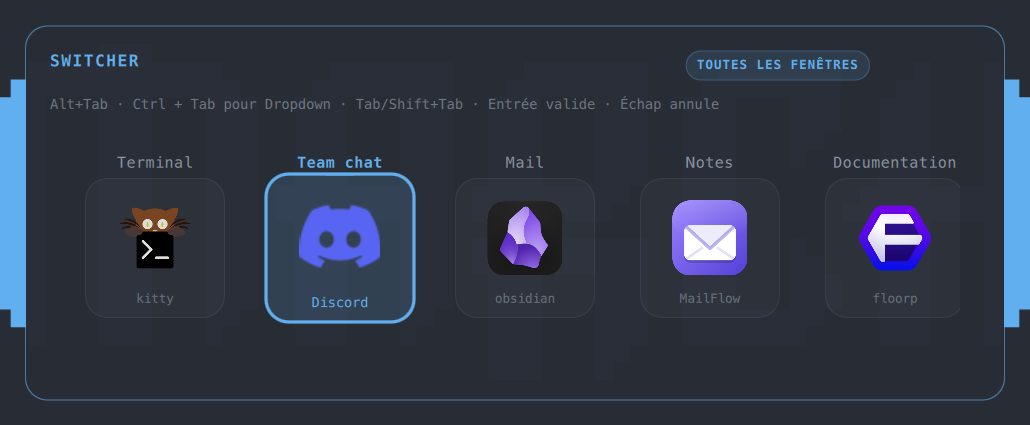
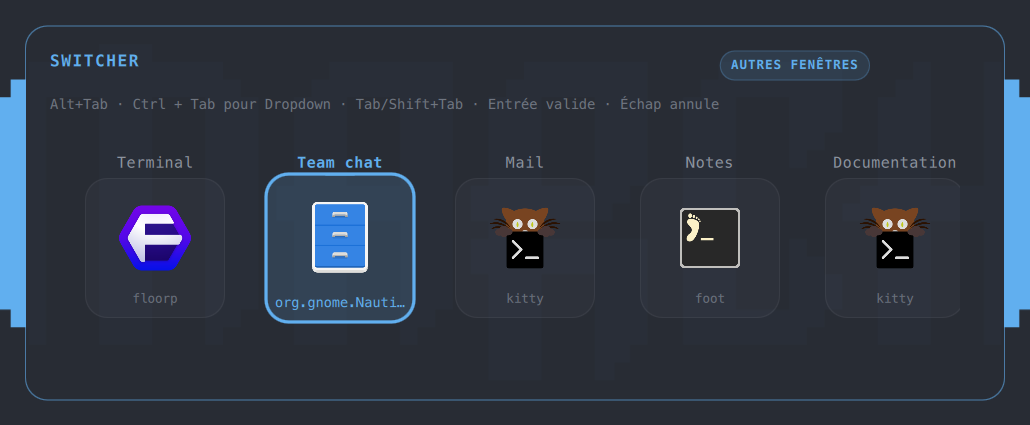
fix: keep Dropdown windows out of the all-windows switcher
Alt+Tab now lists only windows that Dropdown does not manage; Ctrl+Tab remains the Dropdown-only list. The two modes are disjoint, the label reads AUTRES FENETRES, and the screenshot/preview now show the corrected Alt-Tab list.

diff --git a/Model.js b/Model.js
@@ -75,6 +75,9 @@ function parseClients(raw, dropdownWindows, mode) {
       if (cls === "apach.switcher") continue
       var title = String(client.title || "") || cls || "Window"
       var dropdown = dropdownWindows[address.toLowerCase()] || null
+      // The two modes are disjoint: all windows means windows that Dropdown
+      // does not manage, and dropdown means only Dropdown windows.
+      if (mode === "all" && dropdown) continue
       if (mode === "dropdown" && !dropdown) continue
       var workspace = client.workspace && typeof client.workspace === "object"
         ? String(client.workspace.name || "") : ""

diff --git a/Service.qml b/Service.qml
@@ -39,7 +39,7 @@ Item {
         Math.max(0.5, themeAccent.hslSaturation),
         Math.min(0.72, themeAccent.hslLightness + 0.06), 1.0)
     : themeAccent
-  readonly property string modeLabel: mode === "dropdown" ? "FENÊTRES DROPDOWN" : "TOUTES LES FENÊTRES"
+  readonly property string modeLabel: mode === "dropdown" ? "FENÊTRES DROPDOWN" : "AUTRES FENÊTRES"
   readonly property var presets: Model.shortcutPresets()
   readonly property var dropdownPreset: Model.presetForKey(settings.dropdownShortcut)
   readonly property bool dropdownUsesSuper: dropdownPreset.key.indexOf("SUPER") === 0

diff --git a/README.md b/README.md
@@ -3,7 +3,7 @@
 A keyboard-first window switcher for [Omarchy](https://omarchy.org), built to
 work directly with [Dropdown](https://github.com/ApachaiZ/omarchy-dropdown).
 
-- **Alt + Tab** cycles every mapped Hyprland window.
+- **Alt + Tab** cycles mapped Hyprland windows that Dropdown does **not** manage.
 - **Ctrl + Tab** cycles only windows managed by Dropdown.
 - A central overlay with a translucent, blurred backdrop.
 - One icon card per window, with a centered stylized title above it.
@@ -12,13 +12,12 @@ work directly with [Dropdown](https://github.com/ApachaiZ/omarchy-dropdown).
   contexts are immediately distinguishable.
 - No screen capture. Icons are local; titles are rendered as plain text.
 
-![Switcher — all windows](docs/screenshots/switcher-all.png)
 
 ## Screenshots
 
-| All windows | Dropdown windows |
+| Other windows | Dropdown windows |
 | --- | --- |
-| ![All windows](docs/screenshots/switcher-all.png) | ![Dropdown windows](docs/screenshots/switcher-dropdown.png) |
+| ![Other windows](docs/screenshots/switcher-all.png) | ![Dropdown windows](docs/screenshots/switcher-dropdown.png) |
 
 ![Settings](docs/screenshots/switcher-settings.png)
 
@@ -53,8 +52,8 @@ The default bindings are:
 
 | Shortcut | Action |
 | --- | --- |
-| `Alt + Tab` | cycle all windows |
-| `Alt + Shift + Tab` | cycle all windows backwards |
+| `Alt + Tab` | cycle other windows |
+| `Alt + Shift + Tab` | cycle other windows backwards |
 | `Ctrl + Tab` | cycle Dropdown windows |
 | `Ctrl + Shift + Tab` | cycle Dropdown windows backwards |
 | `Super + Alt + S` | open Switcher settings |
@@ -65,7 +64,7 @@ While the overlay is open:
 
 - `Tab` / `Shift+Tab` or `←` / `→` move the selection;
 - `Ctrl+Tab` switches the current overlay to Dropdown windows;
-- `Alt+Tab` switches it back to all windows;
+- `Alt+Tab` switches it back to other windows;
 - `Enter` or `Space` activates the selection;
 - `Escape` cancels;
 - releasing Alt (all mode) or Ctrl (Dropdown mode) activates the selection;
